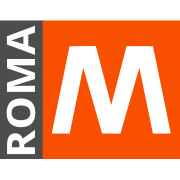
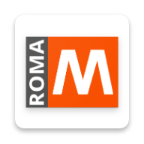
* Inserted links to Android app

diff --git a/xhtml/templates/base.html b/xhtml/templates/base.html
@@ -20,45 +20,42 @@
 		<link href="https://fonts.googleapis.com/css?family=Droid+Sans:400,700" rel="stylesheet">
 		{% block InternalStyle %}
 		{% endblock %}{% block fullscript %}{% endblock %}
-		{% if False %}
-			{% if platform == 'iOS' %}
-				<link rel="stylesheet" href="/xhtml/s/sb/sb.css" type="text/css" media="screen">
-				<meta name="google-play-app" content="app-id=com.realtech.romamobilita">
-				<meta name="apple-itunes-app" content="app-id=820255342">
-				<script src="https://ajax.googleapis.com/ajax/libs/jquery/1.8/jquery.min.js"></script>
-				<script src="/xhtml/s/sb/sb.js"></script>
-				<script type="text/javascript">
-					$(function () { $.smartbanner({
-						title: '{% trans "Roma mobile" %}',
-						author: 'Roma mobile',
-						price: '{% trans "App ufficiale" %}',
-						inAppStore: '{% trans "Gratis" %}',
-						inGooglePlay: '{% trans "Gratis" %}',
-						icon: '/xhtml/s/img/app.png',
-						button: '{% trans "VEDI" %}',
-						daysReminder: 0
-					})})
-				</script>
-			{% endif %}
-			{% if platform == 'Android' %}
-				<link rel="stylesheet" href="/xhtml/s/sb/sb.css" type="text/css" media="screen">
-				<meta name="google-play-app" content="app-id=com.realtech.romamobilita">
-				<meta name="apple-itunes-app" content="app-id=820255342">
-				<script src="https://ajax.googleapis.com/ajax/libs/jquery/1.8/jquery.min.js"></script>
-				<script src="/xhtml/s/sb/sb.js"></script>
-				<script type="text/javascript">
-					$(function () { $.smartbanner({
-						title: '{% trans "Roma mobile" %}',
-						author: 'Roma mobile',
-						price: '{% trans "App ufficiale" %}',
-						inAppStore: '{% trans "Gratis" %}',
-						inGooglePlay: '{% trans "Gratis" %}',
-						icon: '/xhtml/s/img/app.png',
-						button: '{% trans "VEDI" %}',
-						daysReminder: 0
-					})})
-				</script>
-			{% endif %}
+		{% if False and platform == 'iOS' %}
+			<link rel="stylesheet" href="/xhtml/s/sb/sb.css" type="text/css" media="screen">
+			<meta name="google-play-app" content="app-id=it.skeed.romamobile">
+			<meta name="apple-itunes-app" content="app-id=820255342">
+			<script src="https://ajax.googleapis.com/ajax/libs/jquery/1.8/jquery.min.js"></script>
+			<script src="/xhtml/s/sb/sb.js"></script>
+			<script type="text/javascript">
+				$(function () { $.smartbanner({
+					title: '{% trans "Roma mobile" %}',
+					author: 'Roma mobile',
+					price: '{% trans "App ufficiale" %}',
+					inAppStore: '{% trans "Gratis" %}',
+					inGooglePlay: '{% trans "Gratis" %}',
+					icon: '/xhtml/s/img/app.png',
+					button: '{% trans "VEDI" %}',
+					daysReminder: 0
+				})})
+			</script>
+		{% endif %}
+		{% if platform == 'Android' %}
+			<link rel="stylesheet" href="/xhtml/s/sb/sb.css" type="text/css" media="screen">
+			<meta name="google-play-app" content="app-id=it.skeed.romamobile">
+			<script src="https://ajax.googleapis.com/ajax/libs/jquery/1.8/jquery.min.js"></script>
+			<script src="/xhtml/s/sb/sb.js"></script>
+			<script type="text/javascript">
+				$(function () { $.smartbanner({
+					title: '{% trans "Roma mobile" %}',
+					author: 'App originale',
+					price: '{% trans "Gratis" %}',
+					inAppStore: '{% trans "Gratis" %}',
+					// inGooglePlay: '{% trans "Gratis" %}',
+					icon: '/xhtml/s/img/app.png',
+					button: '{% trans "VEDI" %}',
+					daysReminder: 0
+				})})
+			</script>
 		{% endif %}
     <!-- Begin Cookie Consent plugin by Silktide - http://silktide.com/cookieconsent -->
     <script type="text/javascript">
@@ -175,6 +172,15 @@
 				<div id="info">
 					<table style="width: 100%; border: none; padding: 0px; margin: 0px; border-collapse: collapse;">
 						<tr>
+							<td style="padding-left: 5px; vertical-align: middle">
+								<p>
+									<a alt="App Android" href="https://play.google.com/store/apps/details?id=it.skeed.romamobile"><img src="/xhtml/s/img/android-app.png"/></a>
+								</p>
+								<p>
+									<a href="https://www.facebook.com/romamobileapp" class="nound"><img src="/xhtml/s/img/ico-fb.png" alt="Facebook"/></a>
+									<a href="https://twitter.com/roma_mobile" class="nound"><img src="/xhtml/s/img/ico-tw.png" alt="Twitter"/></a>
+								</p>
+							</td>
 							<td style="padding-right: 5px; text-align: right; vertical-align:top;">
 									{{ DebugString }}
 									{{ Nota }}

diff --git a/percorso/js/public/index-red.css b/percorso/js/public/index-red.css
@@ -21,8 +21,7 @@ body {
   font-family: 'Droid Sans';
   font-style: normal;
   font-weight: 400;
-  src: local('Droid Sans Regular'), local('DroidSans-Regular'),
-    url('fonts/DroidSans-Regular.ttf') format('tff');
+  src: local('Droid Sans Regular'), local('DroidSans-Regular'), url('fonts/DroidSans-Regular.ttf') format('truetype');
 }
 
 /* droid-sans-700 - latin */
@@ -30,8 +29,7 @@ body {
   font-family: 'Droid Sans';
   font-style: normal;
   font-weight: 700;
-  src: local('Droid Sans Bold'), local('DroidSans-Bold'),
-    url('fonts/DroidSans-Bold.ttf') format('tff');
+  src: local('Droid Sans Bold'), local('DroidSans-Bold'), url('fonts/DroidSans-Bold.ttf') format('truetype');
 }
 
 table {
